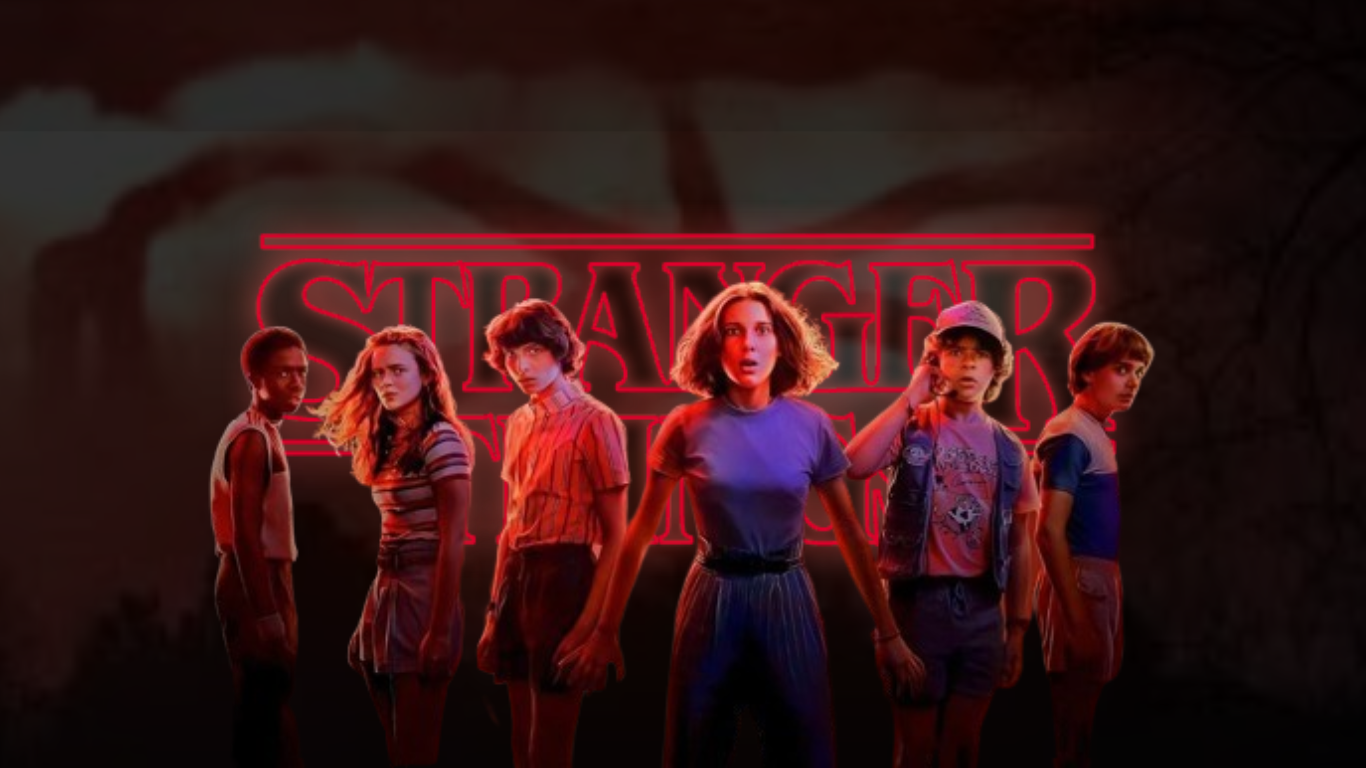
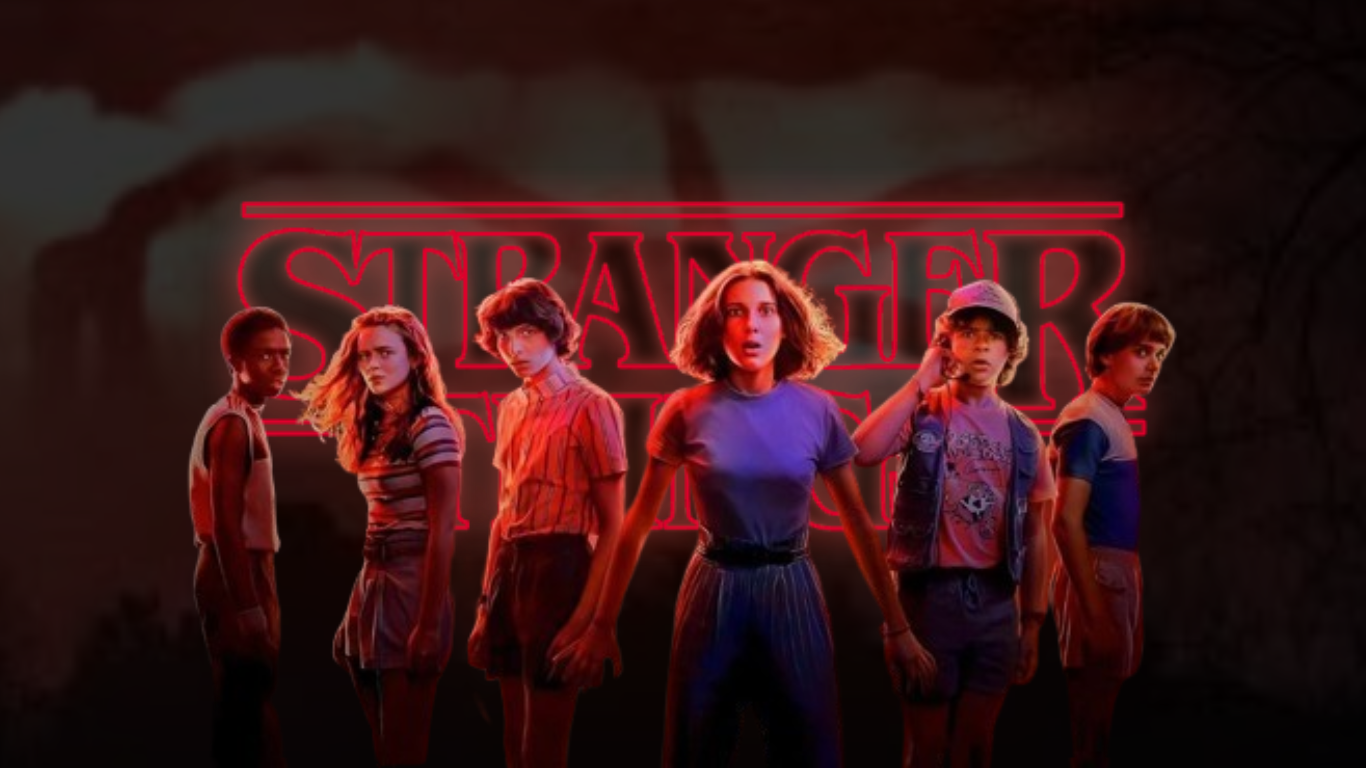
Tela de Cadastro com CSS

Changed region(s): [[0.123, 0.25, 0.8609, 0.9062], [0.6457, 0.9062, 0.7379, 1.0], [0.369, 0.875, 0.3997, 1.0]]

diff --git a/public/cadastro.html b/public/cadastro.html
@@ -3,50 +3,50 @@
 <head>
     <meta charset="UTF-8">
     <meta name="viewport" content="width=device-width, initial-scale=1.0">
-
+   
     <title>Cadastro</title>
-
-    <link rel="stylesheet" href="css/estilo.css" />
+    <link rel="stylesheet" href="css/estilo.css">
+    <link rel="stylesheet" href="https://fonts.googleapis.com/css2?family=Material+Symbols+Outlined:opsz,wght,FILL,GRAD@20..48,100..700,0..1,-50..200&icon_names=keyboard_backspace" />
+    
     <link rel="icon" href="assets/icon/logo.jpg">
 </head>
 <body>
-    <div class="login">
-        <div class="alerta_erro">
-        <div class="card_erro" id="cardErro">
-            <span id="mensagem_erro"></span>
-        </div>
-        </div>
-        <div class="container">
-        <div class="card card-cadastro">
-            <h2>Cadastre-se e vire um Stranger Fã!</h2>
-            <div class="formulario">
-            <div class="campo">
-                <span>Nome:</span><br>
-                <input id="nome_input" type="text" placeholder="Seu nome" />
-            </div>
-            <div class="campo">
-                <span>Email:</span><br>
-                <input id="email_input" type="text" placeholder="nome@email.com" />
-            </div>
-            <div class="campo">
-                <span>Senha:</span><br>
-                <input id="senha_input" type="password" placeholder="******" />
-            </div>
-            <div class="campo">
-                <span>Confirmação da Senha:</span><br>
-                <input id="confirmacao_senha_input" type="password" placeholder="******" />
-            </div>
-            
-            <button class="botao" onclick="cadastrar()">Cadastrar</button>
-            
-            </div>
-            </div>
+     <div class="main">
 
-            <div id="div_msg"></div>
+    <div class="main-login">
+        <div class="row_voltar"> <!-- seta de voltar -->
+            <a href="index.html" class="div_voltar"><span style="font-size: 50px; color: #000;"
+                class="material-symbols-outlined">keyboard_backspace</span></a>
+        </div> <!-- fim seta -->
+
+        <div class="banner-cad">
+            <img src="assets/imgs/fundo-c-demogorgon.jpg" alt="">
         </div>
+        <div class="form-cad">
+            <div class="card-cad">
+                <h1>Cadastre-se e vire um Stranger Fã!</h1>
+                <div class="textfield">
+                    <span>Nome:</span>
+                    <input type="text" id="nome_input" placeholder="ex: Giovanna">
+                </div>
+                <div class="textfield">
+                    <span>E-mail:</span>
+                    <input type="text" id="email_input" placeholder="ex: giovanna@email.com">
+                </div>
+                <div class="textfield">
+                     <span>Senha:</span>
+                    <input type="password" id="senha_input">
+                </div>
+                <div class="textfield">
+                    <span>Confirmação da Senha:</span>
+                    <input type="password" id="confirmacao_senha_input">
+                </div>
+                <button class="btn-cad" onclick="cadastrar()">CADASTRAR</button>
+                    <span id="mensagem_erro"></span><br>
+                <p>Já possui uma conta? <a href="" style="color: white; font-weight: bolder;">Iniciar sessão</a></p>
+            </div>
         </div>
     </div>
-
 </body>
 </html>
 

diff --git a/public/css/estilo.css b/public/css/estilo.css
@@ -58,3 +58,133 @@
     flex-direction: column;
     justify-content: space-between;
 }
+
+/* CADASTRO */
+.main {
+    width: 100%;
+    height: 100vh;
+    background-color: #421C1F;
+    color: white;
+    display: flex;
+    justify-content: space-between;
+    align-items: center;
+}
+
+.main-login {
+    display: flex;
+    justify-content: center;
+    align-items: center;
+}
+
+.banner-cad {
+    height: 100vh;
+    margin-right: auto;
+}
+
+.banner-cad img {
+    width: 100%;
+    height: 100%;
+    display: flex;
+    justify-content: center;
+    align-items: center;
+}
+
+.form-cad {
+    width: 50vw;
+    height: 90vh;
+    display: flex;
+    justify-content: center;
+    align-items: center;
+    margin-left: 90px;
+}
+
+/* voltar */
+.row_voltar {
+    display: flex;
+    justify-content: flex-end;
+    height: 50px;
+    padding: 25px;
+    position: absolute;
+    top: 0;
+    left: 0;
+}
+
+.div_voltar {
+    background: white;
+    border-radius: 50%;
+    cursor: pointer;
+}
+
+.div_voltar:hover {
+    transform: scale(1.1);
+}
+
+.card-cad {
+    width: 60%;
+    display: flex;
+    justify-content: center;
+    align-items: center;
+    flex-direction: column;
+    padding: 0px 35px 25px;
+    height: 100%;
+    background-color: #331618;
+    border-radius: 20px;
+    box-shadow: 0px 10px 40px #1d0d0f;
+}
+
+.card-cad h1 {
+    font-size: 30px;
+    font-weight: 800;
+    margin: 0;
+    padding: 20px;
+}
+
+.textfield {
+    width: 100%;
+    display: flex;
+    flex-direction: column;
+    align-items: center;
+    justify-content: center;
+    margin: 10px 0px;
+}
+
+.textfield input {
+    width: 100%;
+    border: none;
+    border-radius: 10px;
+    padding: 15px;
+    font-size: 12pt;
+    outline: none;
+    box-sizing: border-box;
+}
+
+.textfield span {
+    margin-bottom: 10px;
+}
+
+.btn-cad {
+    width: 62%;
+    padding: 16px 0px;
+    margin: 25px;
+    border: none;
+    border-radius: 8px;
+    outline: none;
+    text-transform: uppercase;
+    font-weight: 800;
+    letter-spacing: 3px;
+    color: #421C1F;
+    cursor: pointer;
+    box-shadow: 0px 10px 40px -12px #1d0d0f;
+}
+
+#mensagem_erro {
+    color: red;
+    font-size: 20px;
+    font-weight: 700;
+    margin-top: -10px;
+    text-align: center;
+}
+
+p {
+    margin-top: -5px;
+}

diff --git a/public/index.html b/public/index.html
@@ -24,14 +24,14 @@
             <a href="">Login</a>
           </li>
           <li>
-            <a href="">Cadastro</a>
+            <a href="cadastro.html">Cadastro</a>
           </li>
         </ul>
       </div>
     </div>
   
     <div class="banner">
-        <img src="assets/imgs/bannerMELHOR.png" alt="Banner Principal">
+        <img src="assets/imgs/banner.png" alt="Banner Principal">
       <div class="container">
         <div class="texto">
           <p>Ápresentado por <span>Giovanna de Oliveira</span></p>
